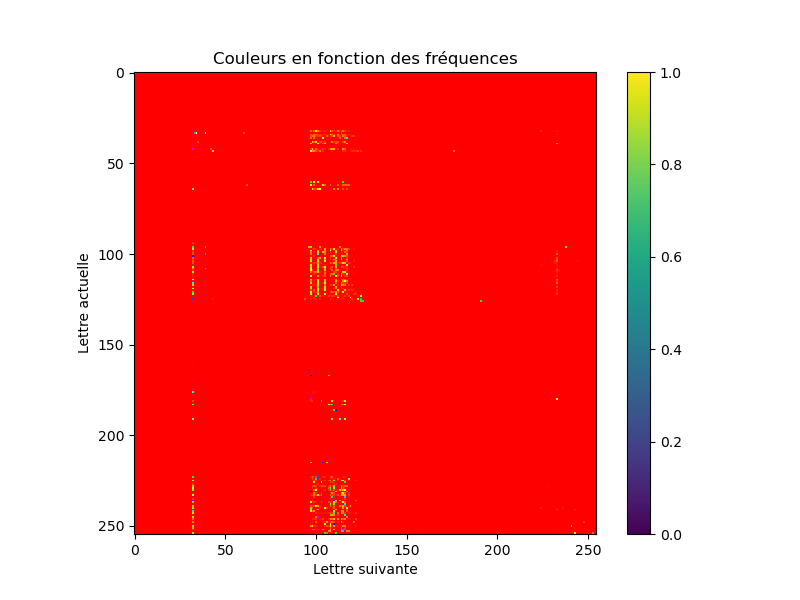
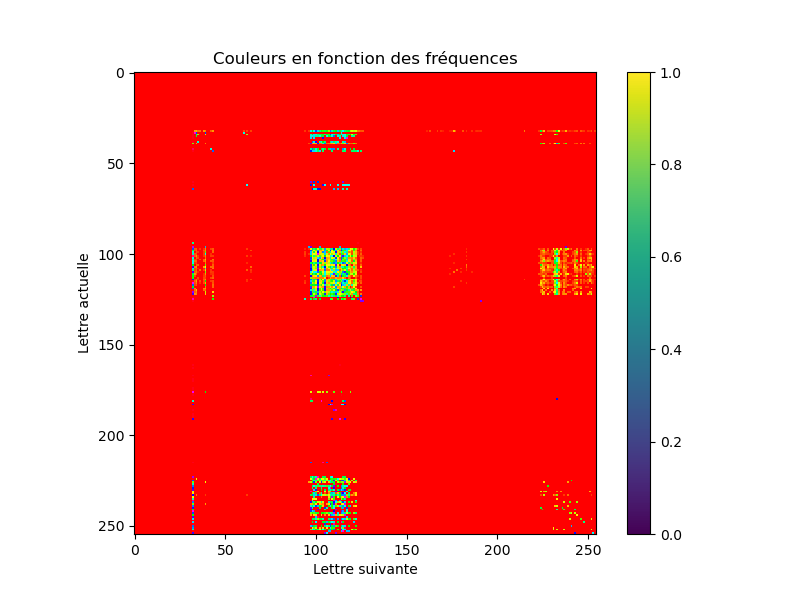
testimage

diff --git a/visualization/matrix_visualization.py b/visualization/matrix_visualization.py
@@ -16,7 +16,8 @@ for i in range(len(matrix)):
 colors_hsv = np.zeros((255, 255, 3))  # Matrice pour stocker les couleurs en HSV
 for i in range(255):
     for j in range(255):
-        colors_hsv[i, j, 0] = matrix[i, j]  # Teinte correspondant à la fréquence
+        alpha=0.25
+        colors_hsv[i, j, 0] = matrix[i, j]**alpha  # Teinte correspondant à la fréquence
 
 # Conversion des couleurs de l'espace HSV à RGB pour l'affichage
 colors_rgb = plt.get_cmap('hsv')(colors_hsv[:, :, 0])  # Utilisation uniquement de la teinte pour la colormap
@@ -29,4 +30,4 @@ plt.xlabel('Lettre suivante')
 plt.ylabel('Lettre actuelle')
 plt.colorbar()  # Barre de couleur pour référence
 plt.show(block=True)
-#plt.savefig(f"/home/onyxia/work/projet_python_ds/training/Matrix/Matrix_viz_{language}.jpeg")
+plt.savefig(f"/home/onyxia/work/projet_python_ds/training/Matrix/Matrix_viz_{language}.png")
